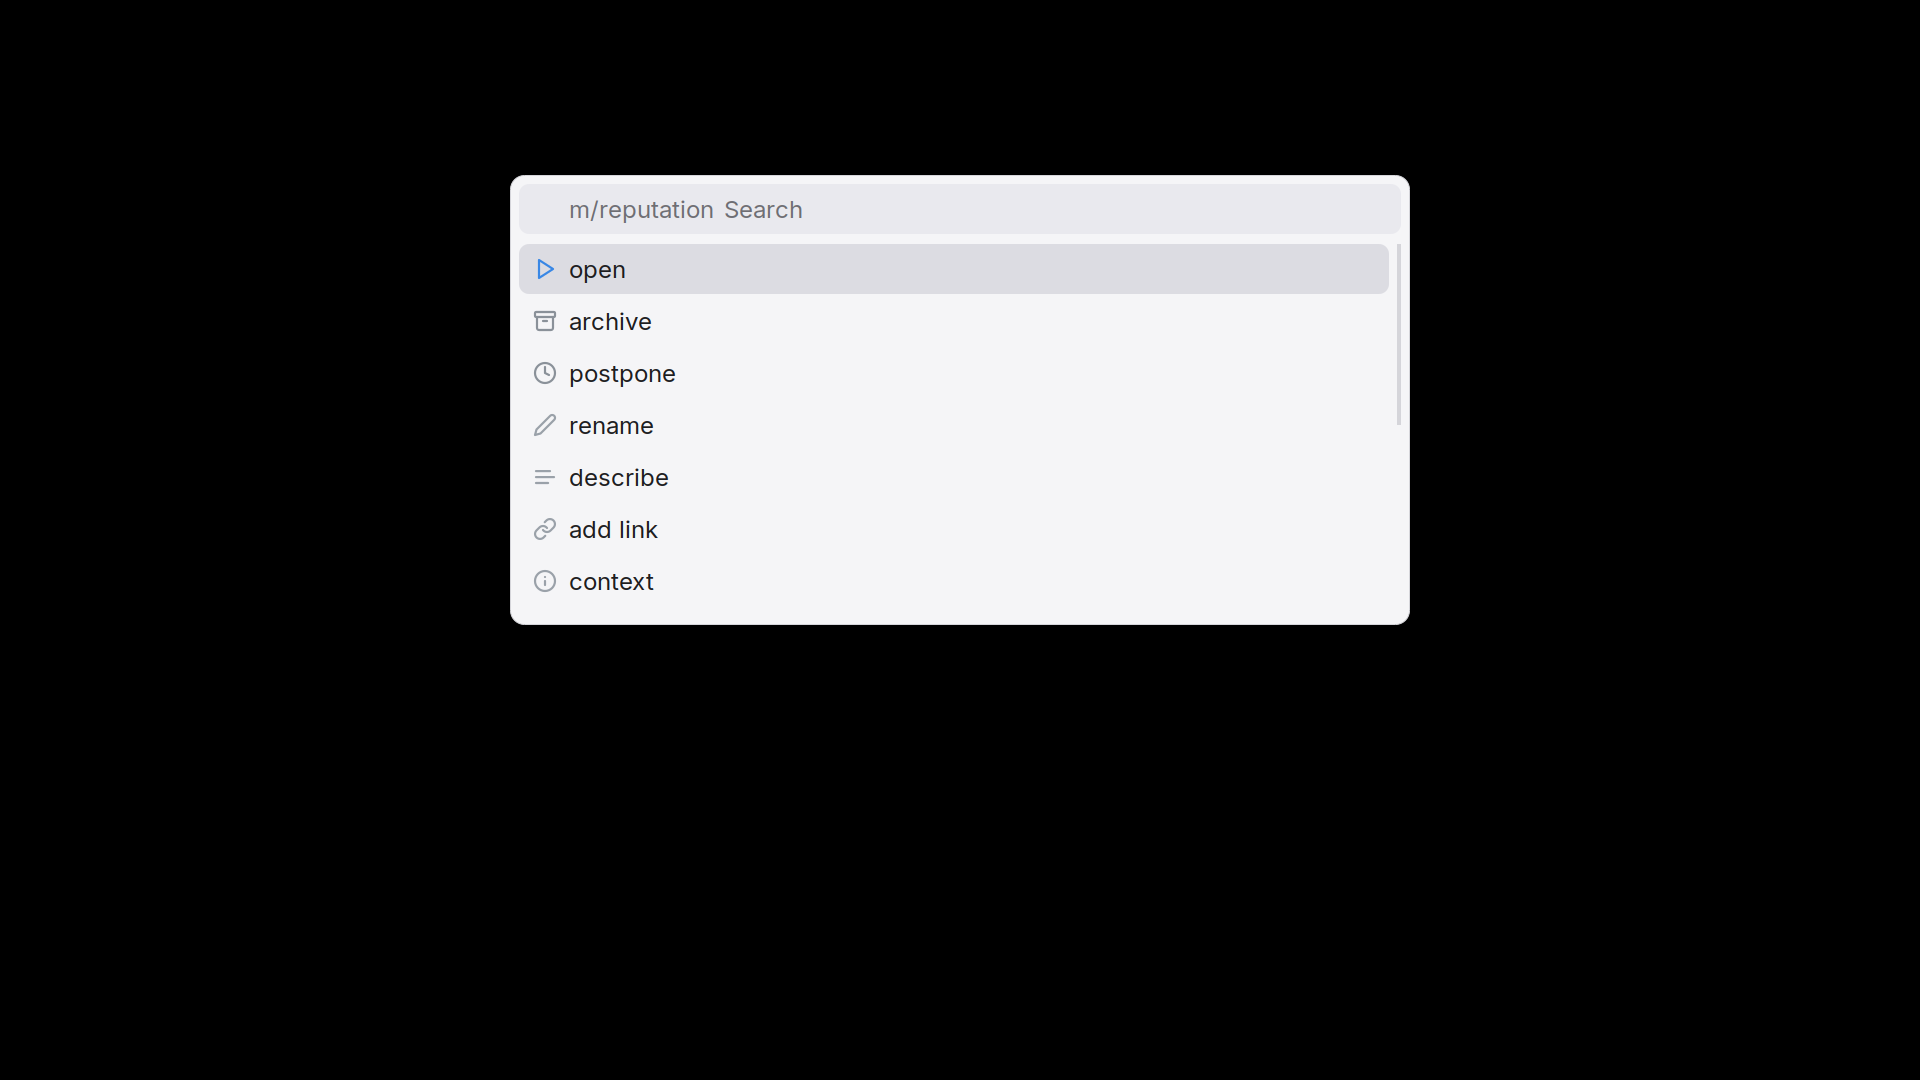
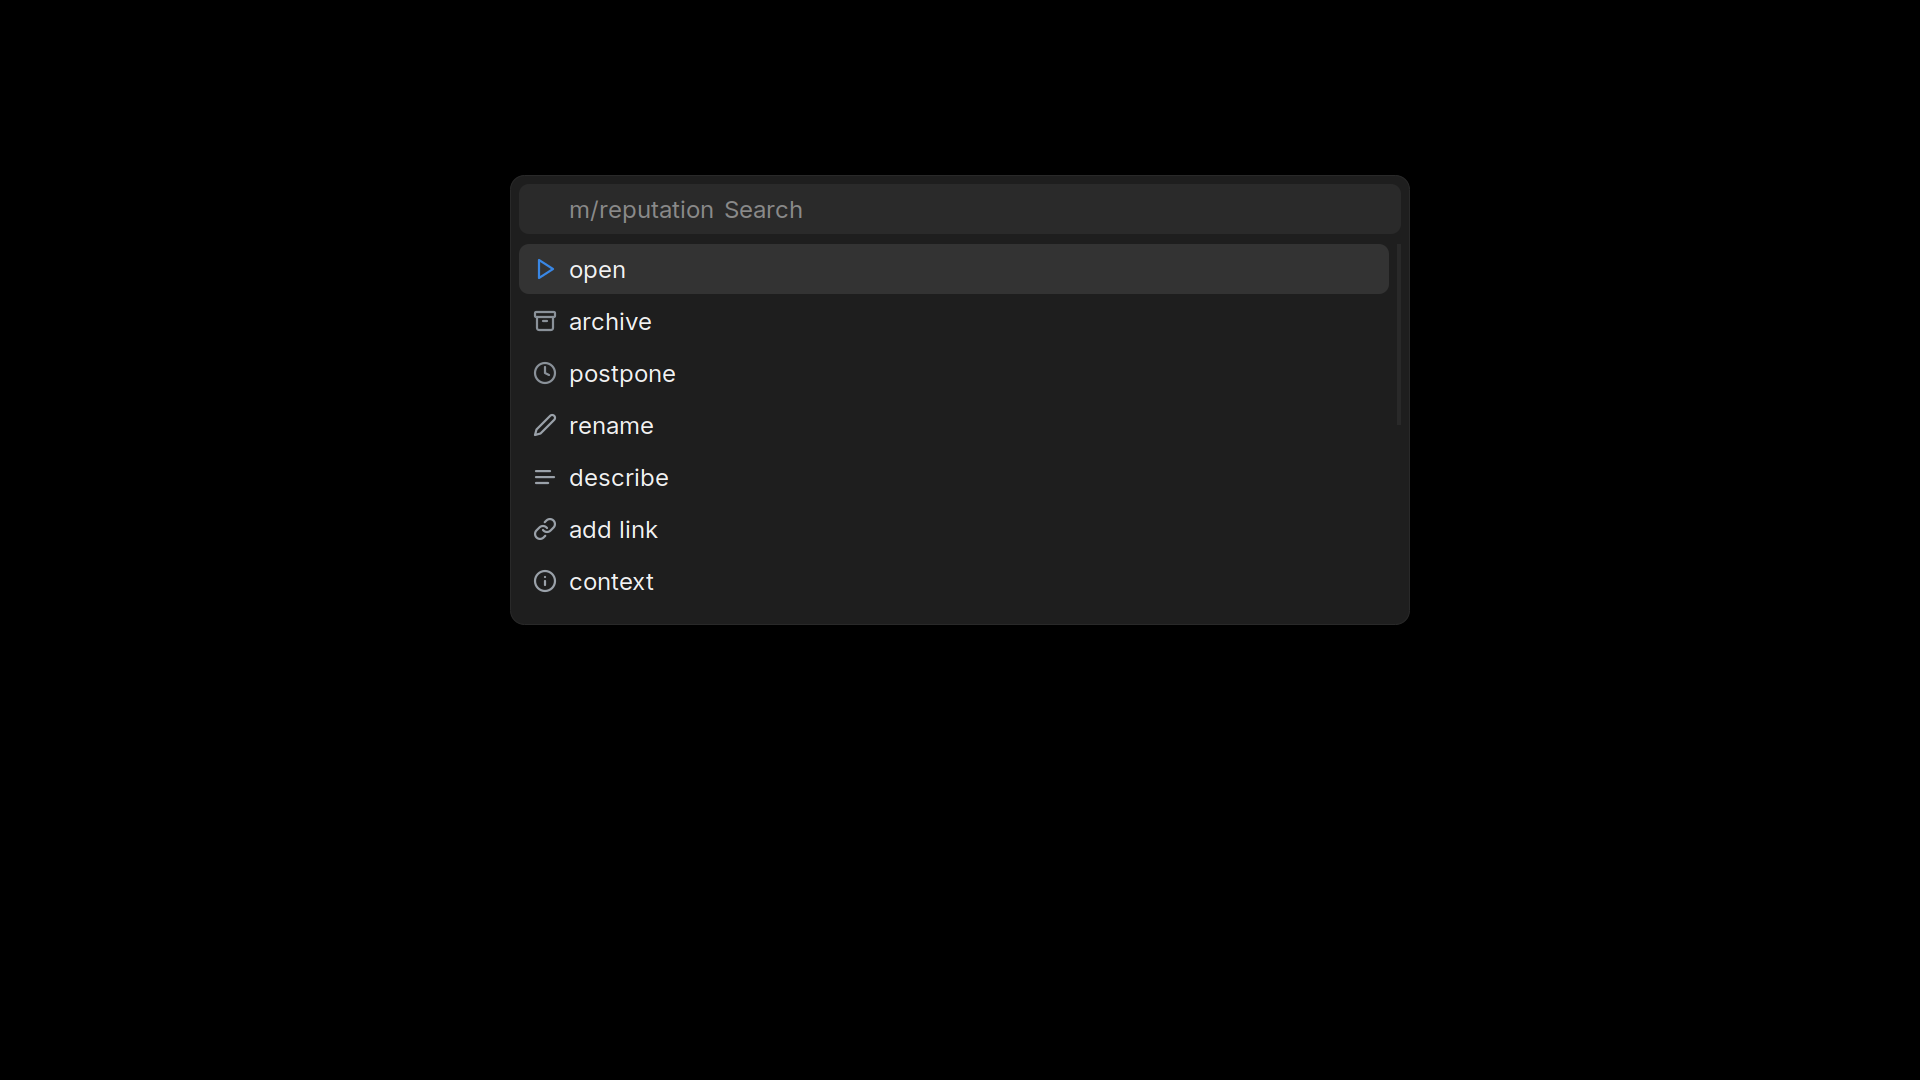
p-launcher: rofi goldens pin the dark theme

Changed region(s): [[0.25, 0.1528, 0.75, 0.5806]]

diff --git a/p-launcher/golden_test.go b/p-launcher/golden_test.go
@@ -163,7 +163,9 @@ func TestGoldenRofiMenu(t *testing.T) {
 		rows = append([]Row{offer}, rows...) // an unknown issue in the clipboard
 	}
 	// the same arguments menuMode uses for the main list, hint line included
-	cmd := exec.Command("rofi", append(append(rofiArgs("project", "F5"), mainMenuExtra()...), rowHeightArgs(ps)...)...)
+	// -theme pins the dark variant: the live config follows the system color
+	// scheme (bin/color-scheme), and a golden must not depend on the time of day
+	cmd := exec.Command("rofi", append(append(append(rofiArgs("project", "F5"), mainMenuExtra()...), rowHeightArgs(ps)...), "-theme", "cards-dark")...)
 	cmd.Env = append(os.Environ(), "DISPLAY="+display)
 	cmd.Stdin = bytes.NewReader(rofiInput(rows, icons))
 	if err := cmd.Start(); err != nil {
@@ -186,7 +188,7 @@ func TestGoldenRofiVerbs(t *testing.T) {
 	if err != nil {
 		t.Fatal(err)
 	}
-	cmd := exec.Command("rofi", rofiArgs("m/reputation", "F5")...)
+	cmd := exec.Command("rofi", append(rofiArgs("m/reputation", "F5"), "-theme", "cards-dark")...)
 	cmd.Env = append(os.Environ(), "DISPLAY="+display)
 	cmd.Stdin = bytes.NewReader(verbInput(verbRows(Project{Path: "m/reputation", Name: "reputation"}), icons))
 	if err := cmd.Start(); err != nil {
